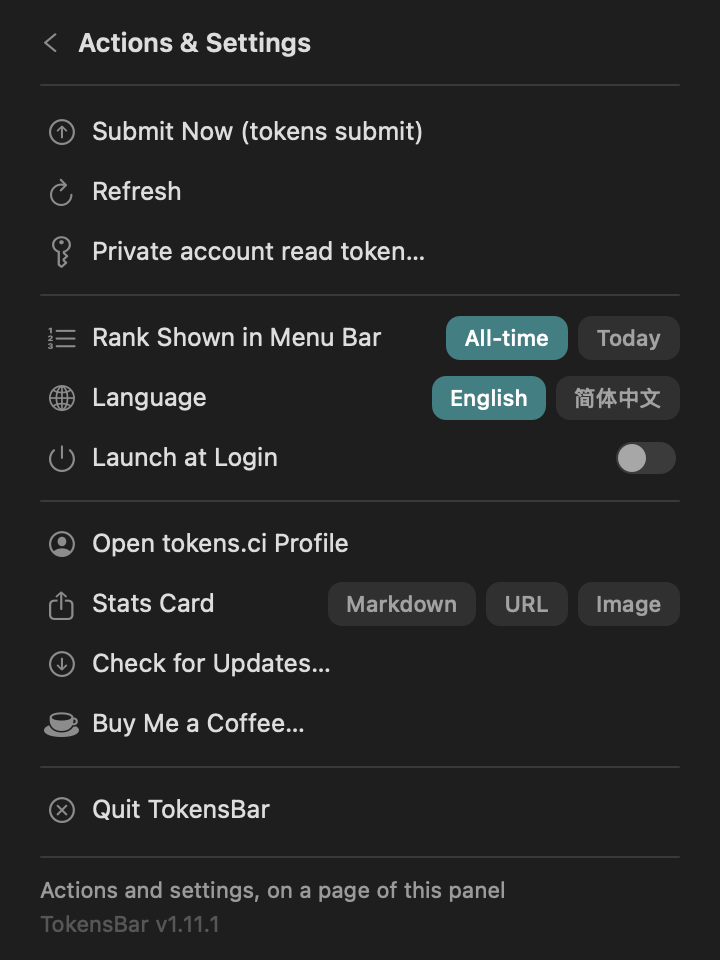
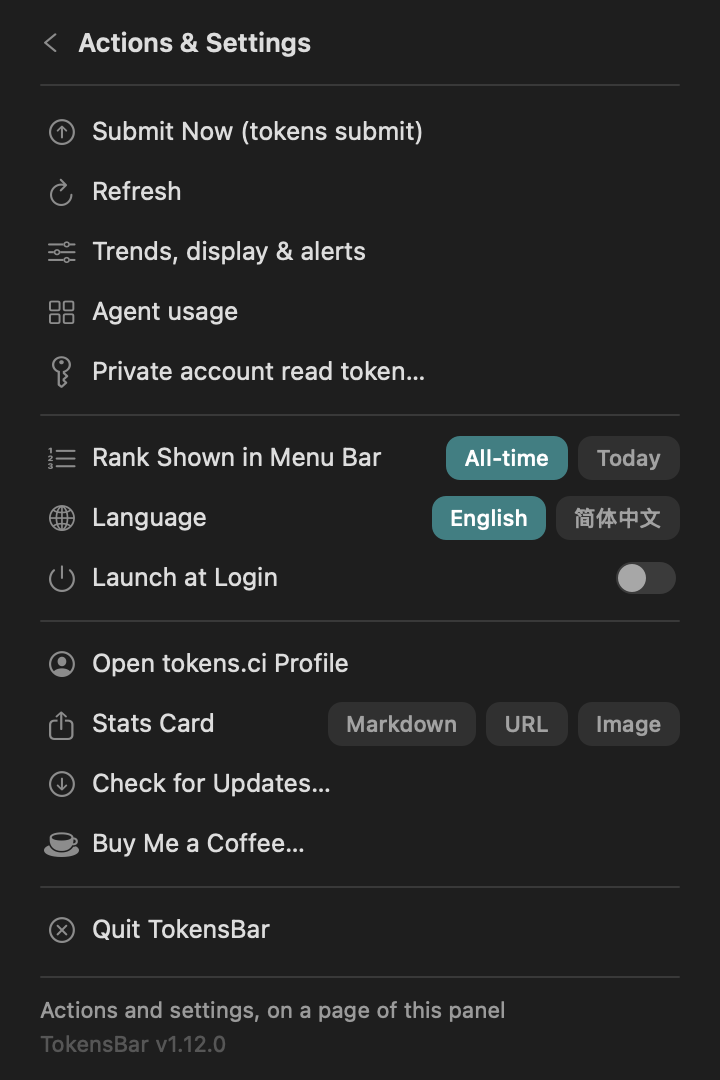
Document build 20 with verified native candidate screenshots

diff --git a/README.md b/README.md
@@ -31,6 +31,9 @@ It also adds a compact Usage & display window: truthful today/7-day comparisons,
 
 <p align="center"><img src="docs/agent-automatic-en-light.png" width="420" alt="Actual native automatic-connector setup screen; no accounts connected"><img src="docs/preferences-2-en-dark.png" width="310" alt="Native editable menu-bar composition and order"></p>
 
+<p align="center"><img src="docs/preferences-0-en-light.png" width="310" alt="Today versus the previous seven UTC days"><img src="docs/preferences-1-en-dark.png" width="310" alt="Fetch and local CLI data health"></p>
+<p align="center"><img src="docs/preferences-3-en-light.png" width="310" alt="Estimated cost thresholds and notification frequency"></p>
+
 These 2× native AppKit offscreen renders use synthetic fixtures and explicit failure/demo states, not connected account values. Authenticated account results, Keychain and notification delivery are not verified.
 
 ## What's new in 1.11.1
@@ -47,7 +50,7 @@ The following improvements from 1.11.0 are retained:
 
 [Download v1.11.1](https://github.com/lucaisgrowing/tokens-menubar/releases/tag/v1.11.1) · [Full changelog](CHANGELOG.md)
 
-The README images below are 2× native AppKit offscreen renders of a **1.11.1** source build on macOS, using synthetic `demo-user` API/CLI data—not a real account or Linux mockup. The snapshot-only change increases render resolution without changing the app interface. The diagnostic renderer uses a fixed backing surface in place of the live popover material. English and Chinese images are rendered separately. [Reproduction and verification](docs/SCREENSHOTS.md).
+The README images below are 2× native AppKit offscreen renders of this **unreleased 1.12.0 build 20 candidate** on macOS, using synthetic `demo-user` API/CLI data—not a real account or Linux mockup. The diagnostic renderer uses a fixed backing surface in place of the live popover material. English and Chinese images are rendered separately. They do not show the published v1.11.1 download. [Reproduction and verification](docs/SCREENSHOTS.md).
 
 > **Apple silicon:** use a native **arm64** `tokens` CLI, installed through Apple silicon Homebrew (`brew install owo-network/brew/tokens`). An Intel-only CLI needs Rosetta to run; TokensBar prefers a native installation when available and reports an unlaunchable CLI rather than a bare "submit failed".
 
@@ -171,7 +174,7 @@ cd tokens-menubar
 open TokensBar.app
 ```
 
-The app is an `LSUIElement`: menu bar only, no Dock icon and no windows.
+The app is an `LSUIElement`: no Dock icon. The menu-bar panel remains the main entrance; Agent usage and Usage & display open native utility windows.
 
 The icon lives at `Resources/AppIcon.icns` and is committed. It is drawn in code — edit `Tools/make-icon.swift` and run `swift Tools/make-icon.swift` to regenerate it.
 

diff --git a/docs/SCREENSHOTS.md b/docs/SCREENSHOTS.md
@@ -34,3 +34,14 @@ The earlier [2026-10-27 run](https://github.com/lucaisgrowing/tokens-menubar/act
 ## 中文说明
 
 这 14 张图片由 1.11.1 源码构建的 App 在 macOS 上以 2× 分辨率原生离屏渲染，使用虚构的 `demo-user` API／CLI 数据。截图模式使用固定底色代替实际弹层材质；它不是桌面截图，也不代替真实账号、钥匙串、CLI 和界面交互的人工验收。贡献图在滚动年份靠近月初时，前两个标签可能重叠，这是原界面的布局问题，不是图片放大造成的。
+
+
+## Unreleased 1.12.0 build 20 candidate
+
+The candidate README images were refreshed from the exact universal App produced by [macOS run 40668113754](https://github.com/lucaisgrowing/tokens-menubar/actions/runs/40668113754), source `e685551dceedc970c8b1c892c61da57f9214789e`. They supersede the released-version image provenance above only on the isolated candidate branch.
+
+- `docs/menu*.png` and their Chinese counterparts are 720×1492; Agent windows are 1800×1880; Usage & display panes are 920×1100. All are 2× native AppKit offscreen renders, not an image upscaling.
+- `Tools/render-readme-snapshots.sh` uses a loopback fixture server and temporary demo CLI. `--agent-diagnostics` and `--preferences-diagnostics` use synthetic fixtures and labelled disabled/error/demo states. They never connect personal accounts or send notifications.
+- All four preferences panes, both main panel appearances and both automatic-connection appearances in English/Chinese were visually reviewed. Text fits without overlapping; long Agent content intentionally scrolls. The new screenshots are copied without pixel edits. Normal macOS controls may appear neutral in offscreen rendering; the existing panel's deep-green accent remains checked by the native contrast tests.
+- The trends illustration is a deterministic example, not a current account statement. No authenticated Codex/Claude/Muse Code usage, real Keychain/OpenRouter behavior or notification banner delivery is verified.
[1 lines of base64/hex data omitted]
